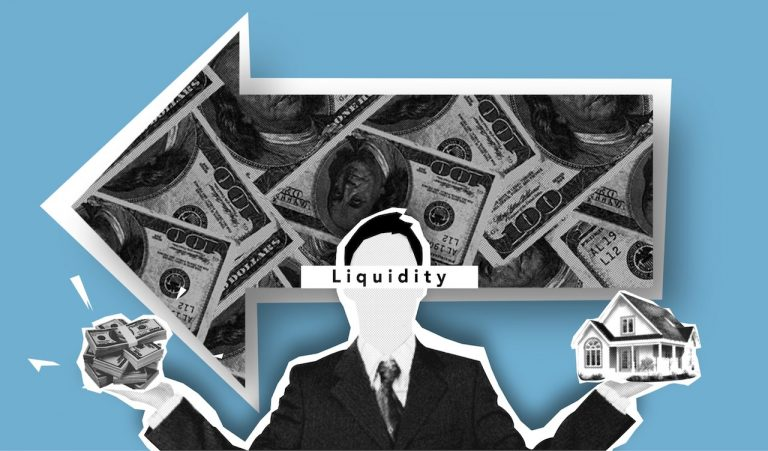
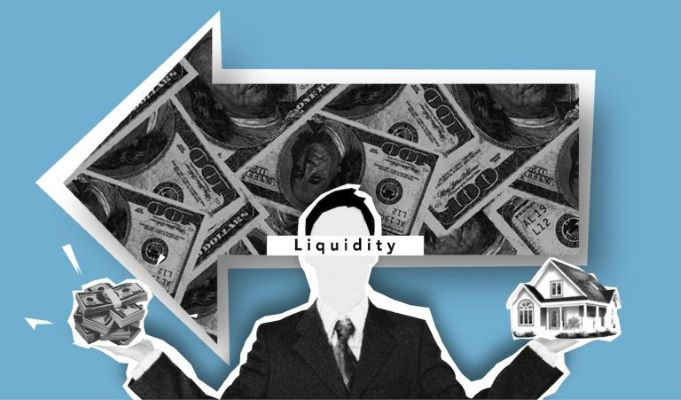
case studies

diff --git a/content/property/work-begins-on-800-home/index.md b/content/property/work-begins-on-800-home/index.md
@@ -1,0 +1,45 @@
+---
+title: "Work begins on 800-home Forster Park development in Stevenage"
+date: 2023-07-17
+categories: ["Property"]
+tags:
+description: "A Stevenage development will deliver 800 homes, alongside a local centre, a primary school, country park and public open space."
+thumbnail: "/property/work-begins-on-800-home/thumbnail.webp"
+slug: "/property/work-begins-on-800-home/"
+discussionId: "/property/work-begins-on-800-home/"
+featured: true
+toc: true
+---
+![](thumbnail.webp)
+
+A Stevenage development will deliver 800 homes, alongside a local centre, a primary school, country park and public open space.
+
+It will come from Bellway North London and Miller Homes, while work has already started on the first phase of new homes, for which detailed planning consent was granted by Stevenage Borough Council earlier this year.
+
+Bellway is to build 400 homes overall – with 105 homes on the first phase, featuring 75 two, three and four-bedroom properties for private sale and 30 affordable homes available for local people through low-cost rent or shared ownership.
+
+Miller Homes is delivering 396 new homes at Forster Park, including 43 for private sale and 41 affordable homes on the first phase. The North Road development will feature a range of energy efficient two to five-bedroom homes and is anticipated to launch later this year.
+
+Ali Maruf, managing director of Bellway North London, said: “A significant milestone for Bellway, the ground-breaking at Forster Park celebrates our joint project with Miller Homes which has local community, heritage and sustainability at its core.
+
+“To mark the start of construction, we gathered together on the land near Rooks Nest House, where the renowned English writer EM Forster grew up, and which inspired his novel Howard’s End. This is truly a beautiful part of the world, and we have named our development Forster Park in his honour.
+
+“We are committed to an overarching focus on sustainability, which complements the site’s natural surroundings, as well as Bellway’s ethos. Existing trees and shrubs will be retained wherever possible, alongside the addition of generous new planting. Green open spaces and ponds will be thoughtfully designed and implemented to help support local wildlife, as well as bird and bat boxes being installed.
+
+“This first phase will see us not only deliver new homes – which will all have electric vehicle charging points – but also a new local centre with commercial space which could be used to house a convenience store.”
+
+![](builders.jpg)
+
+Detailed applications for a further 115 homes within phase one and the 93-acre country park are to be considered by the council at a later date.
+
+Maruf added: “With regard to the wider scheme, we are proud to be teaming up with Miller Homes to create a brand-new neighbourhood that will bring huge investment to improve local infrastructure and services.”
+
+Gavin Jones, regional operations director at Miller Homes South Midlands, said: “We are excited to announce that our work has now begun on Miller Homes’ new Stevenage development, Forster Park.
+
+“Energy efficiency and environmental considerations are at the forefront of these designs; EV charging points will ensure homes are futureproofed for the new community we are creating at Forster Park, while boxes for birds and bats will encourage wildlife to thrive in green open spaces.
+
+“Together, we will also be making contributions of over £1.1 million to the local community, including support for healthcare, schools, transport and infrastructure, and sports facilities.
+
+“The development is conveniently situated in an excellent location for commuters, with easy access to the A1M and Stevenage town centre for the train station for easy connections to London.”
+
+Both Bellway and Miller Homes expect to officially launch later on this year, with show homes to follow in spring 2024.

diff --git a/content/rural/young-farmer-champ/index.md b/content/rural/young-farmer-champ/index.md
@@ -1,0 +1,52 @@
+---
+title: "Young Farmer champ hopes to inspire more women into farming"
+date: 2023-07-18
+categories: ["Rural"]
+tags:
+- Rural
+- Farming
+- Pirongia
+description: "Farmer confidence remains deep in negative territory, according to the latest Rabobank Rural Confidence survey."
+thumbnail: "/rural/young-farmer-champ/thumbnail.jpg"
+slug: "/rural/young-farmer-champ/"
+discussionId: "/rural/young-farmer-champ/"
+featured: true
+toc: true
+---
+![Emma Poole competing in the head to head challenge on the practical day of the competition.](thumbnail.jpg)
+
+New Zealand's first female FMG Young Farmer of the Year recipient Emma Poole hopes to be an inspiration for other women in the sector.
+
+The 28-year-old Pirongia dairy farmer told Rural News that it's an amazing feeling to have come away with the win after a gruelling three days of finals competition in Timaru earlier this month.
+
+"It was a challenging contest and the other competitors kept me on my toes throughout the whole process, so I am feeling very fortunate to have pulled it off," says Poole.
+
+"As for being the first woman, that is a special feeling; hopefully there will be many more to come and it can inspire more women to enter this great industry.
+
+"We've finally knocked the grass ceiling off the roof. There's a long chain of women that have worked hard to display the important role we play in agriculture.
+
+"All those women have given me the confidence to stand up and give it a go. I'm just a product of what they've all achieved."
+
+Alongside the coveted title, iconic trophy and famous Cloak of Knowledge, Poole received $90,000 in prizes.
+
+The seven regional finalists had their farming skills and general knowledge put to the test with tasks that included repairing farm machinery, creating a hydroponic system and an intense race-style challenge with multiple tasks that saw points awarded for both skill and speed.
+
+Poole believes all the finalists “had an absolute blast”.
+
+“The contest committee went over and above to put on a spectacular show and there was enthusiasm and positivity bubbling out of every corner of the show grounds,” she says.
+
+“It was so energizing and inspiring to be a part of. You also learn a lot about yourself during the competition process – how you cope under pressure, how you can adapt and change to challenges and how you can interact with others.”
+
+Poole isn’t the first winner in the family: her brother and mentor Tim Dangen won the title last year. Poole’s husband Chris won the Waikato/ Bay of Plenty Young Farmer title last year. She was also a finalist in 2019.
+
+Her message to young people eying a career in agriculture is to always consider options.
+
+“There is ample opportunity for any person in this sector to display talent or special skills,” Poole told Rural News.
+
+New Zealand Young Farmers chief executive Lynda Coppersmith says Poole impressed judges with her resilience, broad stroke of skills and knowledge and sheer determination.
+
+“I’m thrilled for her – it’s the most prestigious farming award in the country and it’s incredible to see it go to someone who will be such a strong ambassador for not only the contest but for the entire food and fibre sector as a whole.”
+
+Coppersmith says the talent demonstrated by contestants across the three-day final is proof that the future of the sector is in safe hands.
+
+Peter O’Connor, representing Aorangi, was the runner-up and Otago Southland’s Hugh Jackson finished up in third place.

diff --git a/content/property/30%-of-landlords/index.md b/content/property/30%-of-landlords/index.md
@@ -1,0 +1,30 @@
+---
+title: "30% of landlords plan to sell properties"
+date: 2023-07-17
+categories: ["Property"]
+tags:
+- Landlords
+description: "Some 30% of landlords plan to sell properties in the next 12 months, data from Landbay has revealed."
+thumbnail: "/property/30%-of-landlords/thumbnail.webp"
+slug: "/property/30%-of-landlords/"
+discussionId: "/property/30%-of-landlords/"
+featured: true
+toc: true
+---
+![](thumbnail.webp)
+
+Some 30% of landlords plan to sell properties in the next 12 months, data from Landbay has revealed.
+
+As to be expected, the deciding factor for most (60%) of landlords intending to sell is rising interest rates – an increase from 45% in the previous survey, while almost half (45%) said rent doesn’t cover their mortgage costs – up from 28% in the Q4 2022 survey.
+
+Others also mentioned landlord taxation (47%), the cost of meeting the proposed EPC requirements (40%) and worries about evicting tenants (34%).
+
+Paul Brett, Landbay’s managing director, intermediaries said: “While it’s certainly the case that some landlords are trimming their portfolios in the current climate, our latest data demonstrates that the majority are not looking to make any cuts at all. This is positive news for the wider housing market which is so reliant on rental supply. After all, one-in-five houses in England and Wales depend on the private rented sector (PRS) for housing.
+
+“As a specialist buy-to-let lender, we are always looking at ways to innovate to not only support buyers, but those landlords set to remortgage. With high levels of maturity in the buy-to-let market this year, there will be many weighing up their options in a higher interest environment.
+
+“For those considering selling, we’d always say it’s worth their time speaking with a broker to find out what is their best possible move, especially when there’s lenders like us willing to innovate and find solutions to support landlords in all situations.”
+
+The majority of buy-to-let landlords (64%) are not planning to sell any of their properties in the next 12 months, latest data from the Landbay quarterly survey has revealed.
+
+Most landlords with individual properties (75%) don’t plan to sell, though only 65% have the same intention with more than 20 properties.

diff --git a/content/rural/confidence-still-in-the-doldrums/index.md b/content/rural/confidence-still-in-the-doldrums/index.md
@@ -1,0 +1,32 @@
+---
+title: "Confidence still in the doldrums"
+date: 2023-07-18
+categories: ["Rural"]
+tags:
+- Rural
+description: "Farmer confidence remains deep in negative territory, according to the latest Rabobank Rural Confidence survey."
+thumbnail: "/rural/confidence-still-in-the-doldrums/thumbnail.jpg"
+slug: "/rural/confidence-still-in-the-doldrums/"
+discussionId: "/rural/confidence-still-in-the-doldrums/"
+featured: true
+toc: true
+---
+![The net confidence in this survey rose to -57% from -58% previously.](thumbnail.jpg)
+
+Farmer confidence remains deep in negative territory, according to the latest Rabobank Rural Confidence survey.
+
+The latest survey - completed late June - found that while farmer confidence in the broader agricultural economy wa up marginally on the previous quarter (March 2023), there are still a wide-ranging mix of concerns in the sector. The net confidence in this survey rose to -57% from -58% previously.
+
+Farmers were also more positive about the prospects for their own farm business performance, with the net confidence reading for this measure rising to -35% from -45% previously.
+
+Rabobank New Zealand chief executive Todd Charteris said primary producers' confidence in the broader agri economy, as well as their own farm business performance, had now risen for two consecutive quarters after both measures fell to historic lows in the final quarter of 2022.
+
+"While it is pleasing to see confidence continuing to climb - albeit incrementally - it's important to note that it's coming from an extremely low base and that farmer sentiment across all key agricultural sector remains incredibly fragile."
+
+The survey found the two most pressing issues were rising input costs and government policy.
+
+Despite the small lift in Charteris says there is now a higher percentage of farmers with significant concerns about the viability of their operations.
+
+"The recent margin pressure on farmers has resulted in more now assessing their own operation as unviable, with this rising to eight per cent from five per cent previously."
+
+This was most pronounced for sheep and beef farmers, with 16% of those in the sector now holding concerns about their operation's viability.

diff --git a/content/property/L&G/index.md b/content/property/L&G/index.md
@@ -1,0 +1,28 @@
+---
+title: "L&G: Landlords the focal point of the market"
+date: 2023-07-17
+categories: ["Property"]
+tags:
+- Landlords
+description: "There’s been a 32% increase in searches for ‘multi-unit freehold blocks’ and a 38% increase in searches for rental income."
+thumbnail: "/property/L&G/thumbnail.webp"
+slug: "/property/L&G/"
+discussionId: "/property/L&G/"
+featured: true
+toc: true
+---
+![The buy-to-let sector remains resilient, as landlords eye HMOs in search for higher rental income, Legal & General research has found.](thumbnail.webp)
+
+There’s been a 32% increase in searches for ‘multi-unit freehold blocks’ and a 38% increase in searches for rental income.
+
+Similarly, searches for top slicing rose by 49% in June, while searches in relation to regulated buy-to-let increased by 15%.
+
+Jodie White, head of mortgage products and transformation, Legal & General Technology: “It’s clear that the mortgage market remains robust despite ongoing issues with affordability, rising interest rates and stubborn inflation.
+
+“It’s positive to see that market activity is still being driven by specific sectors including buy-to-let, overseas buyers, and by increased demand for particular property types.”
+
+Overseas buyers also continue to invest in the UK property market and are helping to bolster its growth.
+
+June saw searches on behalf of overseas customers increase by 16%, while searches on behalf of customers with a permanent right to reside or indefinite leave to remain increased by 38%.
+
+Among owner occupiers, there has been an increase in searches for interest only mortgages as borrowers look to reduce their monthly costs.

diff --git a/content/property/think-tank/index.md b/content/property/think-tank/index.md
@@ -1,0 +1,26 @@
+---
+title: "Think tank: Evictions should be blocked for first year"
+date: 2023-07-17
+categories: ["Property"]
+tags:
+- Evictions
+description: "Landlords should be unable to serve an eviction notice for at least the first year of a tenancy – even if they are selling or occupying a property, according to think tank Fabian Society."
+thumbnail: "/property/think-tank/thumbnail.webp"
+slug: "/property/think-tank/"
+discussionId: "/property/think-tank/"
+featured: true
+toc: true
+---
+![](thumbnail.webp)
+
+Landlords should be unable to serve an eviction notice for at least the first year of a tenancy – even if they are selling or occupying a property, according to think tank Fabian Society.
+
+The left wing think tank also reckons eviction notice periods should be increased to four months as standard, while winter evictions should be permanently banned, like they are in Scotland/
+
+Landlords should also have to pay tenants two months’ rent to move if it’s against their will.
+
+Fabian Society said: “Relocation payments will shift power to tenants, protecting them from landlords seeking to exploit unaffordable rent increases to circumvent security for tenants.”
+
+Other proposals are a national landlords register covering the private rented sector as well as Airbnbs, which would detail past rent levels. Money from the register would help fund local authority enforcement.
+
+Meanwhile the government should launch a local scheme where homes can be bought from landlords and turned into social housing, in what would have the opposite effect of Right to Buy.

diff --git a/content/property/Unlocking-Wealth/index.md b/content/property/Unlocking-Wealth/index.md
@@ -5,7 +5,7 @@ categories: ["Property"]
 tags:
 - Property
 description: "Property investment has long been seen as a reliable and successful endeavour, and in the modern, constantly changing financial environment, it is still a good choice for people looking to accumulate money and guarantee their financial future. Beyond monetary profits, purchasing real estate offers investors a number of perks that make it a desirable choice. The key advantages of investing in the housing market will be discussed in this article."
-thumbnail: "/property/Unlocking-Wealth/thumbnail.jpg"
+thumbnail: "/property/Unlocking-Wealth/thumbnail.webp"
 slug: "/property/Unlocking-Wealth/"
 discussionId: "/property/Unlocking-Wealth/"
 featured: true
